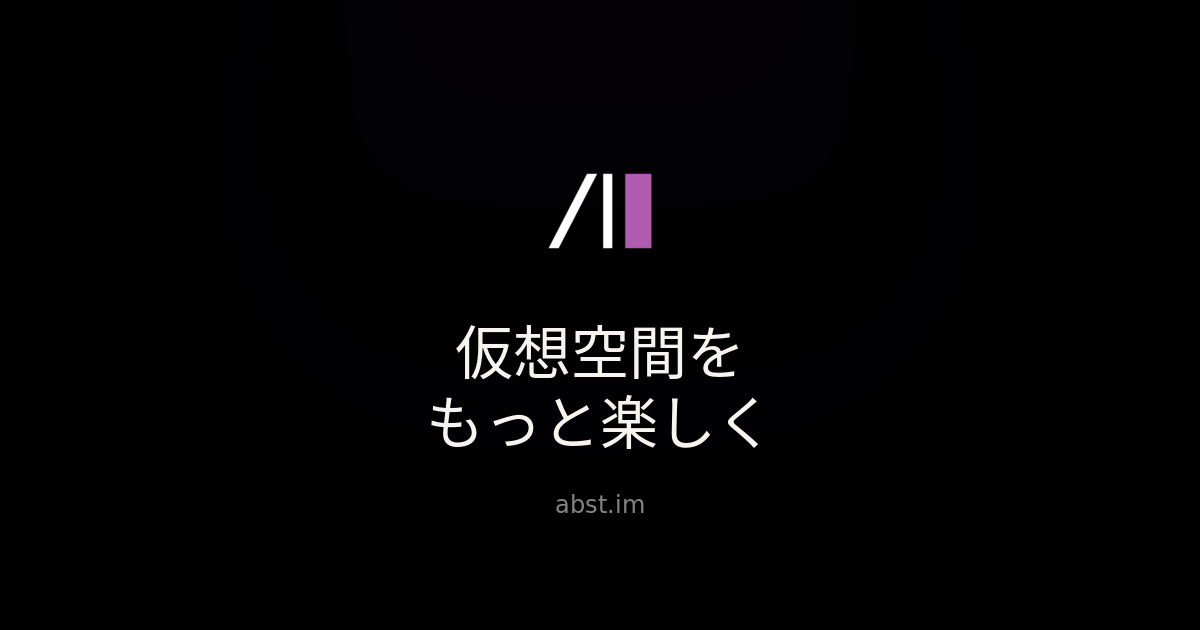
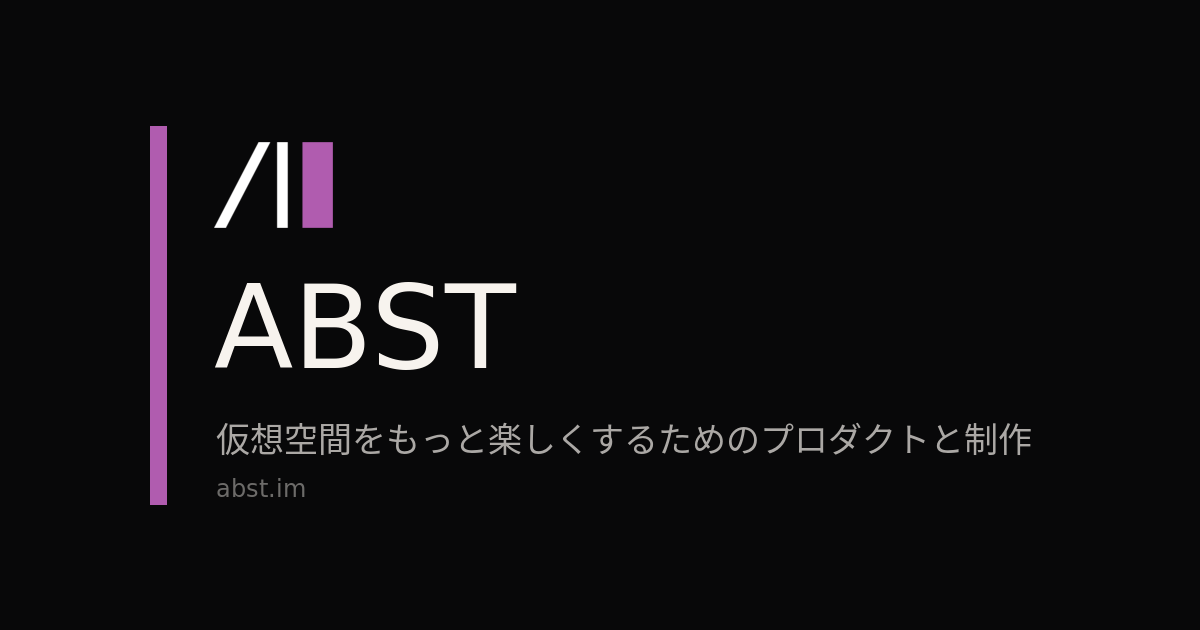
Refine ABST landing page

diff --git a/index.html b/index.html
@@ -10,7 +10,7 @@
   <meta property="og:title" content="ABST">
   <meta property="og:description" content="仮想空間をもっと楽しくするためのプロダクトと制作。">
   <meta property="og:url" content="https://abst.im/">
-  <meta property="og:image" content="https://abst.im/ogp.svg">
+  <meta property="og:image" content="https://abst.im/ogp.png">
   <meta property="og:image:width" content="1200">
   <meta property="og:image:height" content="630">
   <meta name="twitter:card" content="summary_large_image">
@@ -64,37 +64,18 @@
       min-height: calc(100svh - clamp(28px, 6vw, 72px) * 2);
       margin: 0 auto;
       display: grid;
-      grid-template-rows: auto 1fr auto;
-      gap: clamp(56px, 10vw, 128px);
-    }
-
-    .brand {
-      display: flex;
-      align-items: center;
-      gap: 14px;
-      width: fit-content;
-      color: var(--muted);
-      font-size: .72rem;
-      line-height: 1;
-      letter-spacing: .08em;
-      text-transform: uppercase;
-    }
-
-    .logo {
-      width: 34px;
-      height: auto;
-      display: block;
+      align-content: center;
     }
 
     .hero {
       align-self: center;
       display: grid;
-      gap: clamp(32px, 5vw, 48px);
+      gap: clamp(30px, 4.6vw, 44px);
     }
 
     .intro {
       display: grid;
-      gap: 22px;
+      gap: 20px;
       max-width: 39rem;
     }
 
@@ -104,15 +85,26 @@
     }
 
     .title {
+      display: flex;
+      align-items: center;
+      gap: .24em;
       color: var(--text);
-      font-size: clamp(3.6rem, 13vw, 8.75rem);
-      line-height: .86;
-      font-weight: 600;
-      letter-spacing: 0;
+      font-size: 6rem;
+      line-height: .9;
+      font-weight: 400;
+      letter-spacing: .5rem;
+    }
+
+    .title-logo {
+      width: 1.14em;
+      height: 1.14em;
+      flex: 0 0 auto;
+      display: block;
+      transform: translateY(.04em);
     }
 
     .copy {
-      max-width: 31rem;
+      max-width: 32rem;
       color: var(--muted);
       font-size: clamp(.96rem, 1.8vw, 1.12rem);
       line-height: 1.9;
@@ -167,23 +159,6 @@
       transform: translateX(4px);
     }
 
-    .status {
-      display: flex;
-      align-items: center;
-      gap: 10px;
-      color: var(--quiet);
-      font-size: .72rem;
-      line-height: 1.6;
-    }
-
-    .status::before {
-      content: "";
-      width: 7px;
-      height: 7px;
-      background: var(--accent);
-      display: block;
-    }
-
     @media (max-width: 640px) {
       body {
         padding-block: 28px;
@@ -191,11 +166,10 @@
 
       .page {
         min-height: calc(100svh - 56px);
-        gap: 56px;
       }
 
       .title {
-        font-size: clamp(3.25rem, 21vw, 5.3rem);
+        font-size: 3.8rem;
       }
 
       .links {
@@ -217,23 +191,22 @@
 </head>
 <body>
   <main class="page" aria-labelledby="page-title">
-    <a class="brand" href="/" aria-label="ABST home">
-      <img class="logo" src="abst.svg" alt="" width="600" height="600">
-      <span>ABST</span>
-    </a>
-
     <section class="hero" aria-label="ABST overview">
       <div class="intro">
-        <h1 id="page-title" class="title">ABST</h1>
+        <h1 id="page-title" class="title">
+          <img class="title-logo" src="abst.svg" alt="" width="600" height="600">
+          <span>ABST</span>
+        </h1>
         <p class="copy">
-          仮想空間をもっと楽しくするためのプロダクトと制作。いまは個人事業として、空間、3Dモデル、ソフトウェアのまわりを少しずつつくっています。
+          仮想空間をもっと楽しく。<br>
+          ソフトウェアや3Dモデルなど、仮想空間に関わるものを作っています。
         </p>
       </div>
 
       <nav class="links" aria-label="Links">
         <a href="https://here.abst.im/" target="_blank" rel="noopener">
           <span class="link-name">Here!</span>
-          <span class="link-note">人が集まり、近くの声やテキストが届く共有プレゼンス空間</span>
+          <span class="link-note">空間系SNS</span>
           <span class="link-arrow" aria-hidden="true">/</span>
         </a>
         <a href="https://abst.booth.pm/" target="_blank" rel="noopener">
@@ -258,8 +231,6 @@
         </a>
       </nav>
     </section>
-
-    <p class="status">Independent virtual space works from Sakamoto Kurisu.</p>
   </main>
 </body>
 </html>